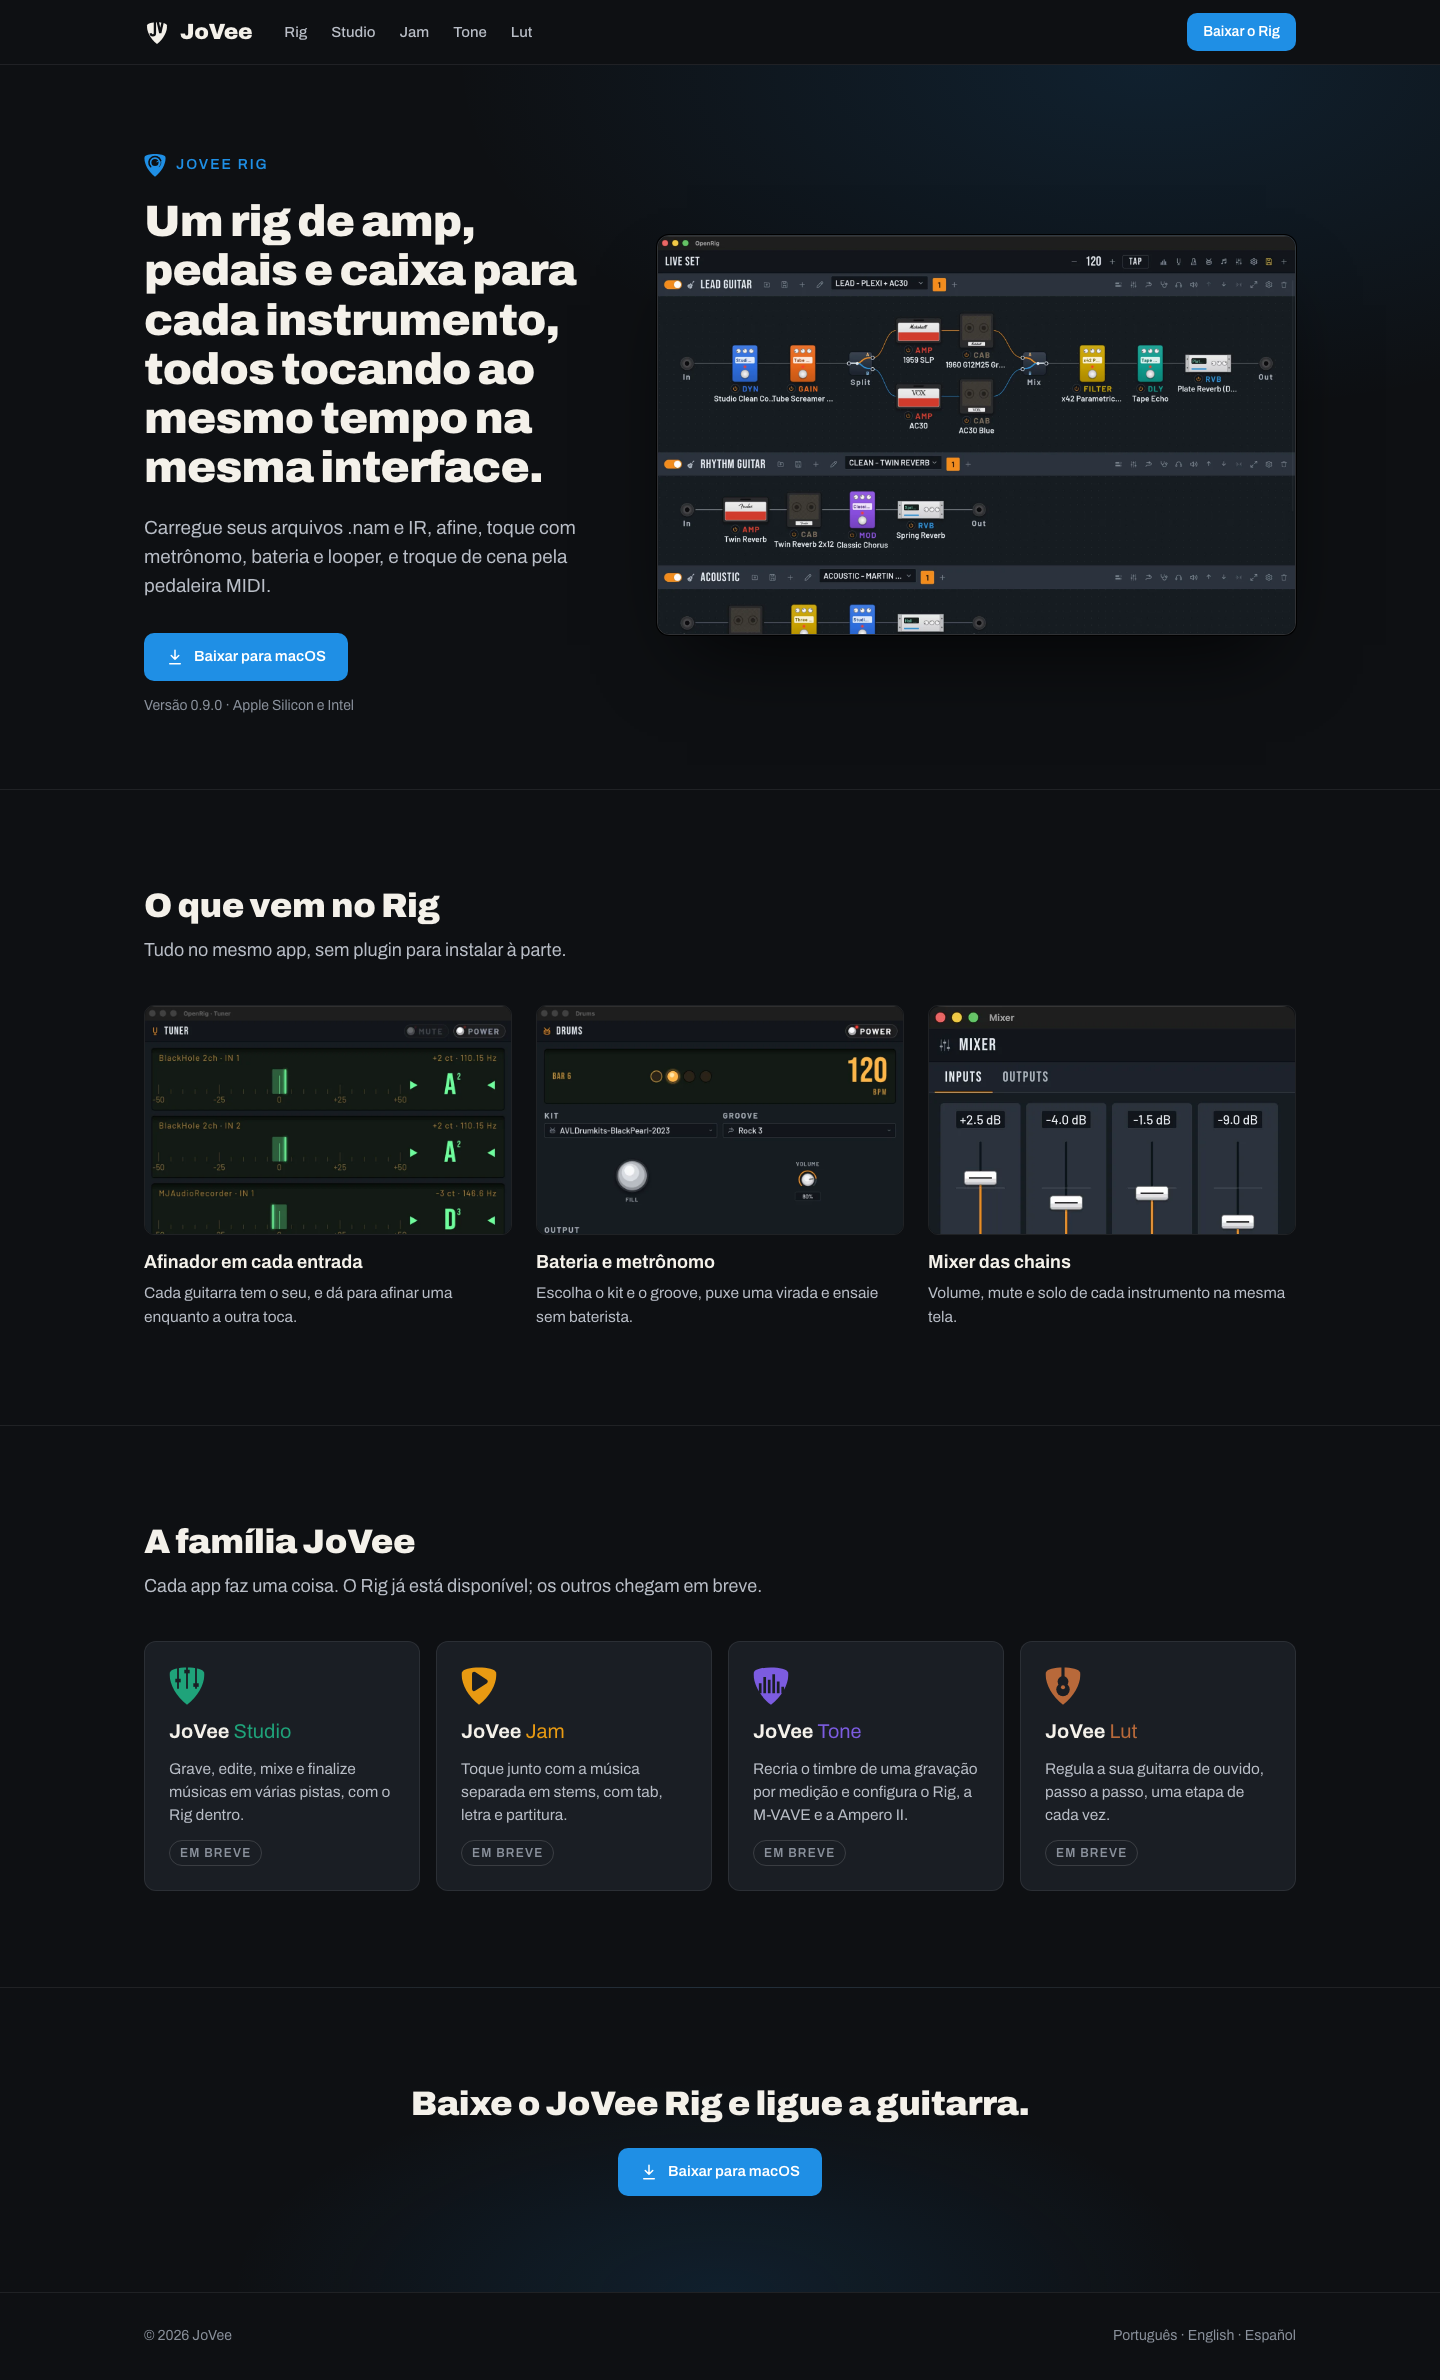
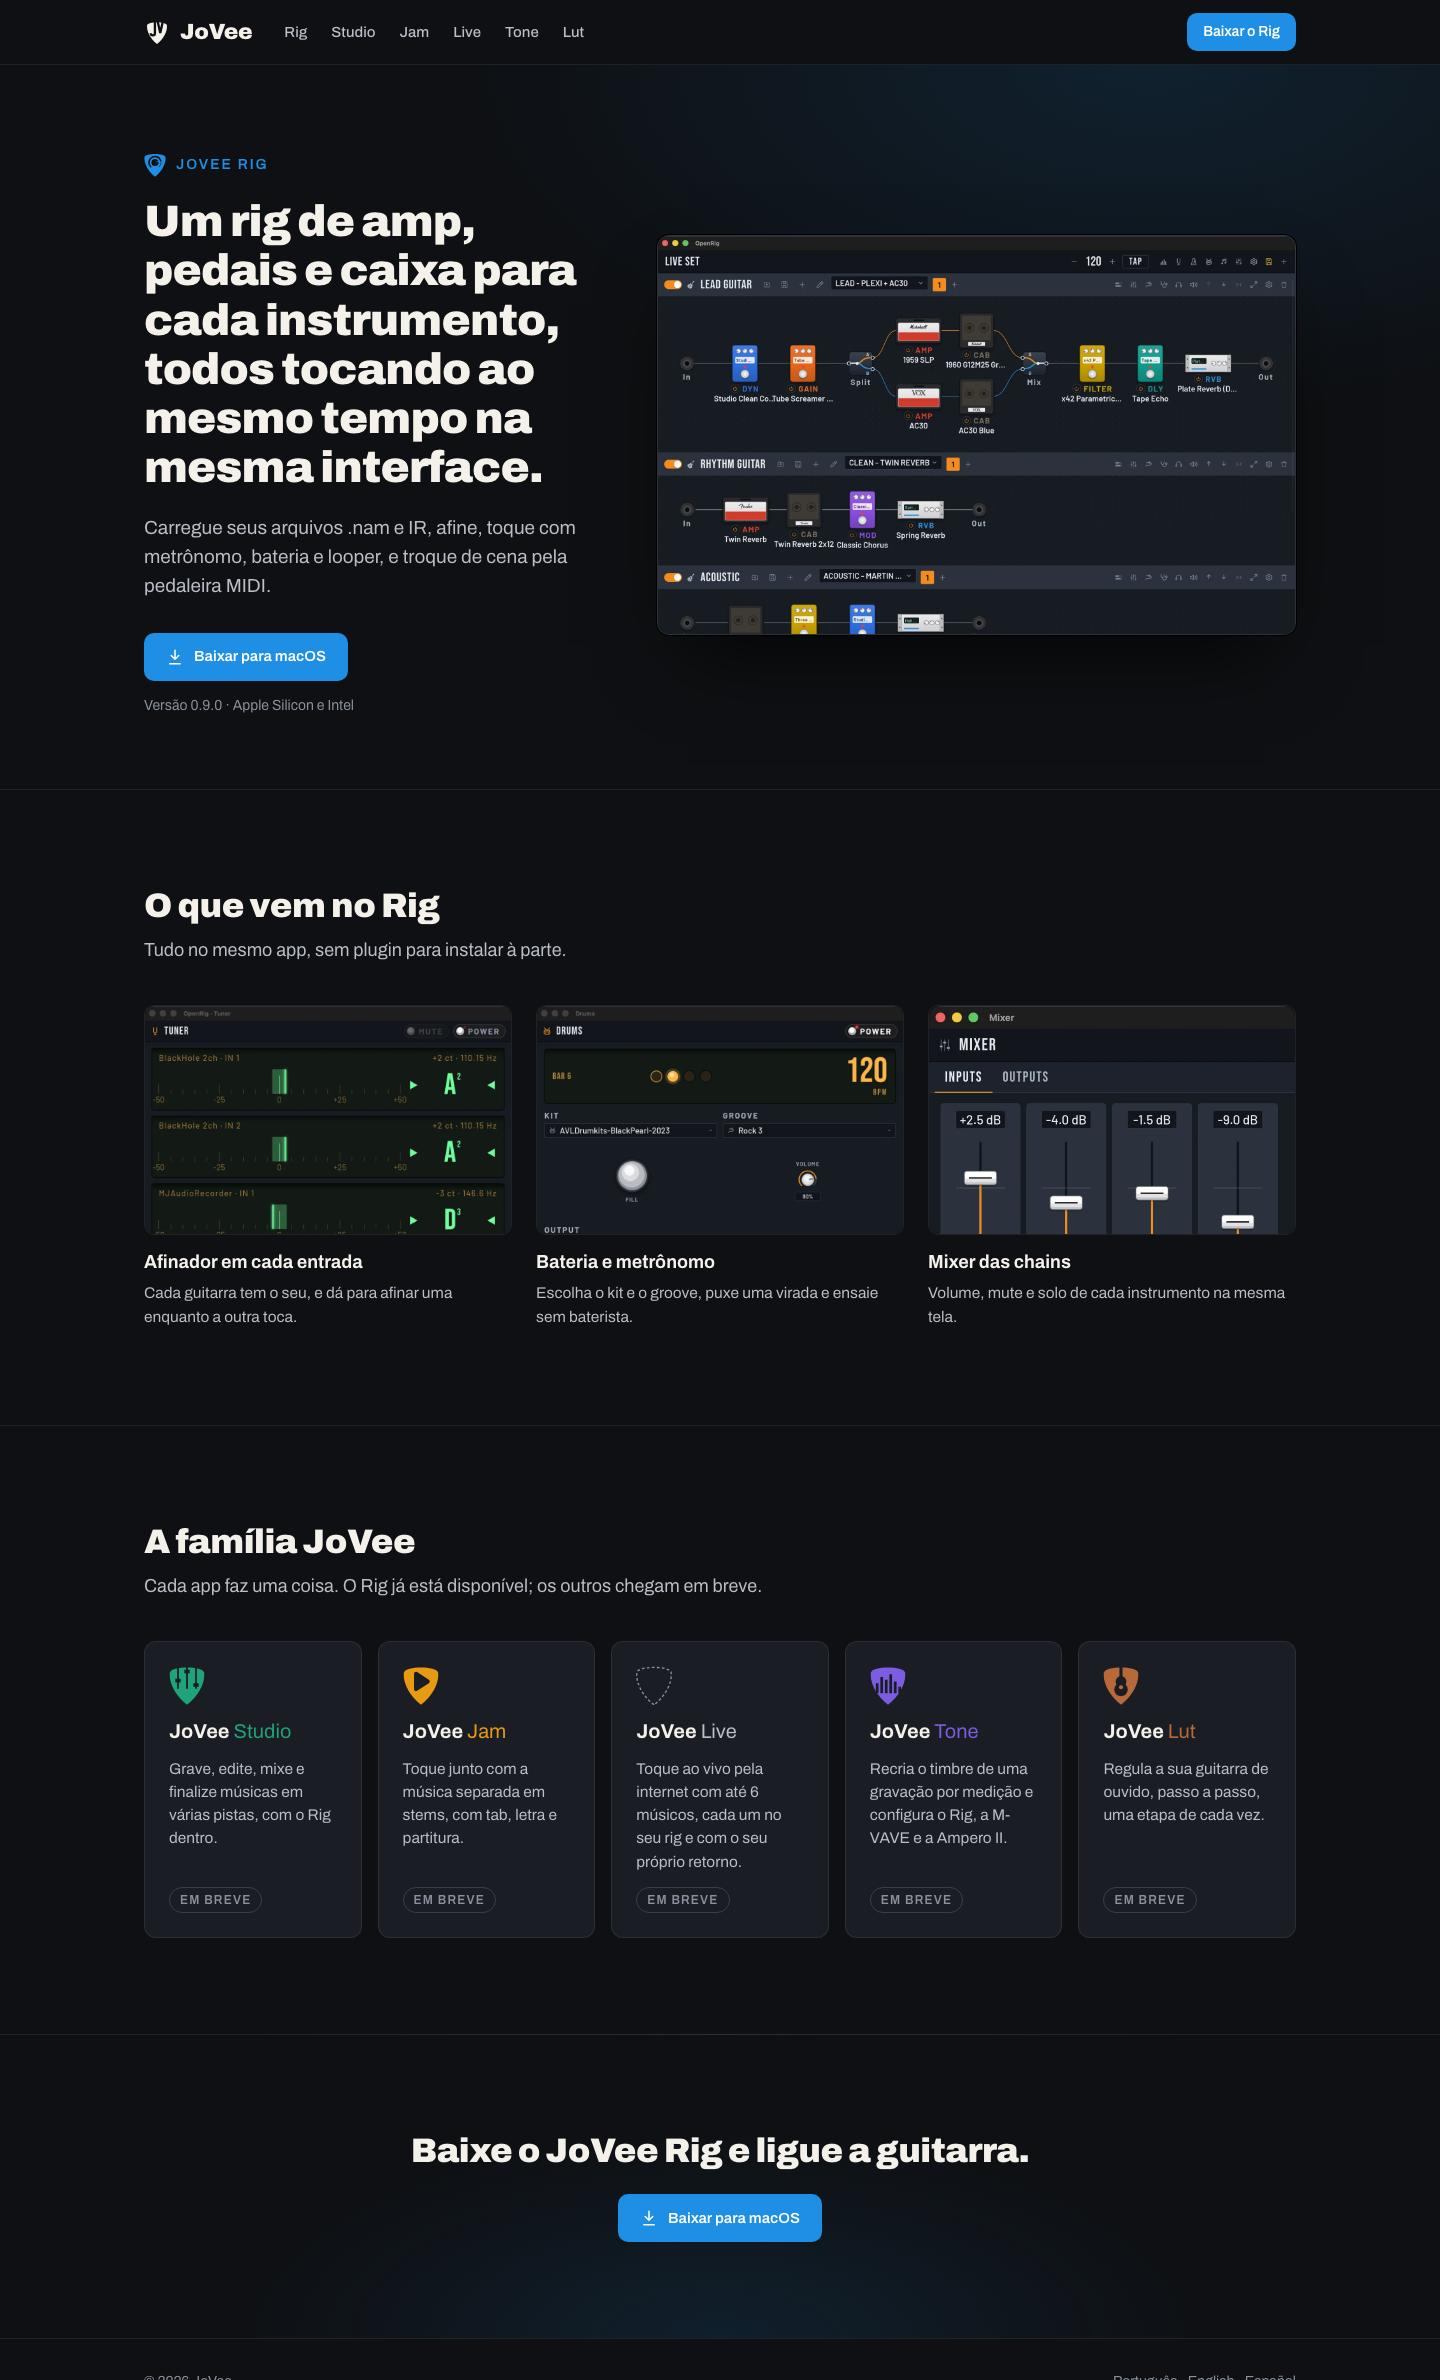
docs(mockup): JoVee Live joins the family as coming soon

diff --git a/mockups/home.html b/mockups/home.html
@@ -47,7 +47,7 @@ h1{margin:20px 0 20px;font:800 44px/1.12 var(--f);letter-spacing:-.02em}
 .sec{padding:96px 0;border-top:1px solid var(--line)}
 .h2{margin:0 0 12px;font:800 34px/1.15 var(--f);letter-spacing:-.015em}
 .sub{margin:0 0 40px;font-size:18px;color:var(--ink-2);max-width:40em}
-.family{display:grid;grid-template-columns:repeat(4,minmax(0,1fr));gap:16px}
+.family{display:grid;grid-template-columns:repeat(5,minmax(0,1fr));gap:16px}
 .app{display:flex;flex-direction:column;gap:14px;padding:24px;border-radius:var(--r);background:var(--card);border:1px solid var(--line)}
 .app .pk{width:36px;height:39px}
 .app b{font:700 20px/1.2 var(--f)}
@@ -73,7 +73,7 @@ h1{margin:20px 0 20px;font:800 44px/1.12 var(--f);letter-spacing:-.02em}
 
 <header class="top"><div class="wrap">
   <a class="brand" href="#"><img src="assets/jovee-symbol-cream.svg" alt="">JoVee</a>
-  <nav class="nav"><a href="#rig">Rig</a><a href="#apps">Studio</a><a href="#apps">Jam</a><a href="#apps">Tone</a><a href="#apps">Lut</a></nav>
+  <nav class="nav"><a href="#rig">Rig</a><a href="#apps">Studio</a><a href="#apps">Jam</a><a href="#apps">Live</a><a href="#apps">Tone</a><a href="#apps">Lut</a></nav>
   <a class="btn btn-rig btn-sm" href="#baixar">Baixar o Rig</a>
 </div></header>
 
@@ -104,6 +104,7 @@ h1{margin:20px 0 20px;font:800 44px/1.12 var(--f);letter-spacing:-.02em}
   <div class="family">
     <div class="app" style="--c:var(--studio)"><img class="pk" src="assets/jovee-studio-symbol.svg" alt=""><b>JoVee <span>Studio</span></b><p>Grave, edite, mixe e finalize músicas em várias pistas, com o Rig dentro.</p><span class="soon">Em breve</span></div>
     <div class="app" style="--c:var(--jam)"><img class="pk" src="assets/jovee-jam-symbol.svg" alt=""><b>JoVee <span>Jam</span></b><p>Toque junto com a música separada em stems, com tab, letra e partitura.</p><span class="soon">Em breve</span></div>
+    <div class="app" style="--c:var(--ink-2)"><img class="pk" src="assets/jovee-live-placeholder.svg" alt=""><b>JoVee <span>Live</span></b><p>Toque ao vivo pela internet com até 6 músicos, cada um no seu rig e com o seu próprio retorno.</p><span class="soon">Em breve</span></div>
     <div class="app" style="--c:var(--tone)"><img class="pk" src="assets/jovee-tone-symbol.svg" alt=""><b>JoVee <span>Tone</span></b><p>Recria o timbre de uma gravação por medição e configura o Rig, a M-VAVE e a Ampero II.</p><span class="soon">Em breve</span></div>
     <div class="app" style="--c:var(--lut)"><img class="pk" src="assets/jovee-lut-symbol.svg" alt=""><b>JoVee <span>Lut</span></b><p>Regula a sua guitarra de ouvido, passo a passo, uma etapa de cada vez.</p><span class="soon">Em breve</span></div>
   </div>
